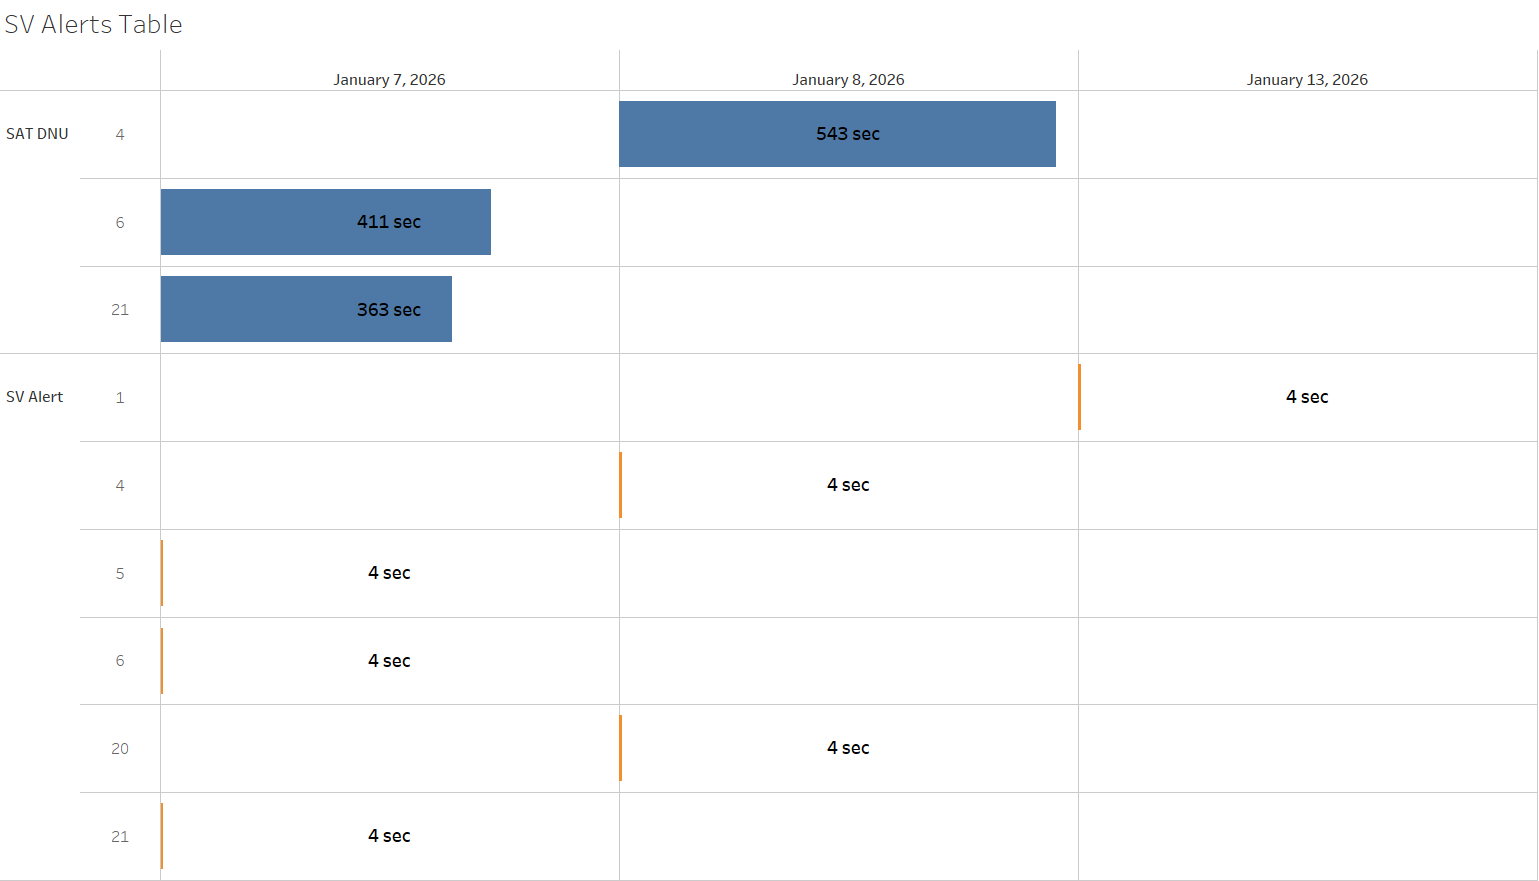
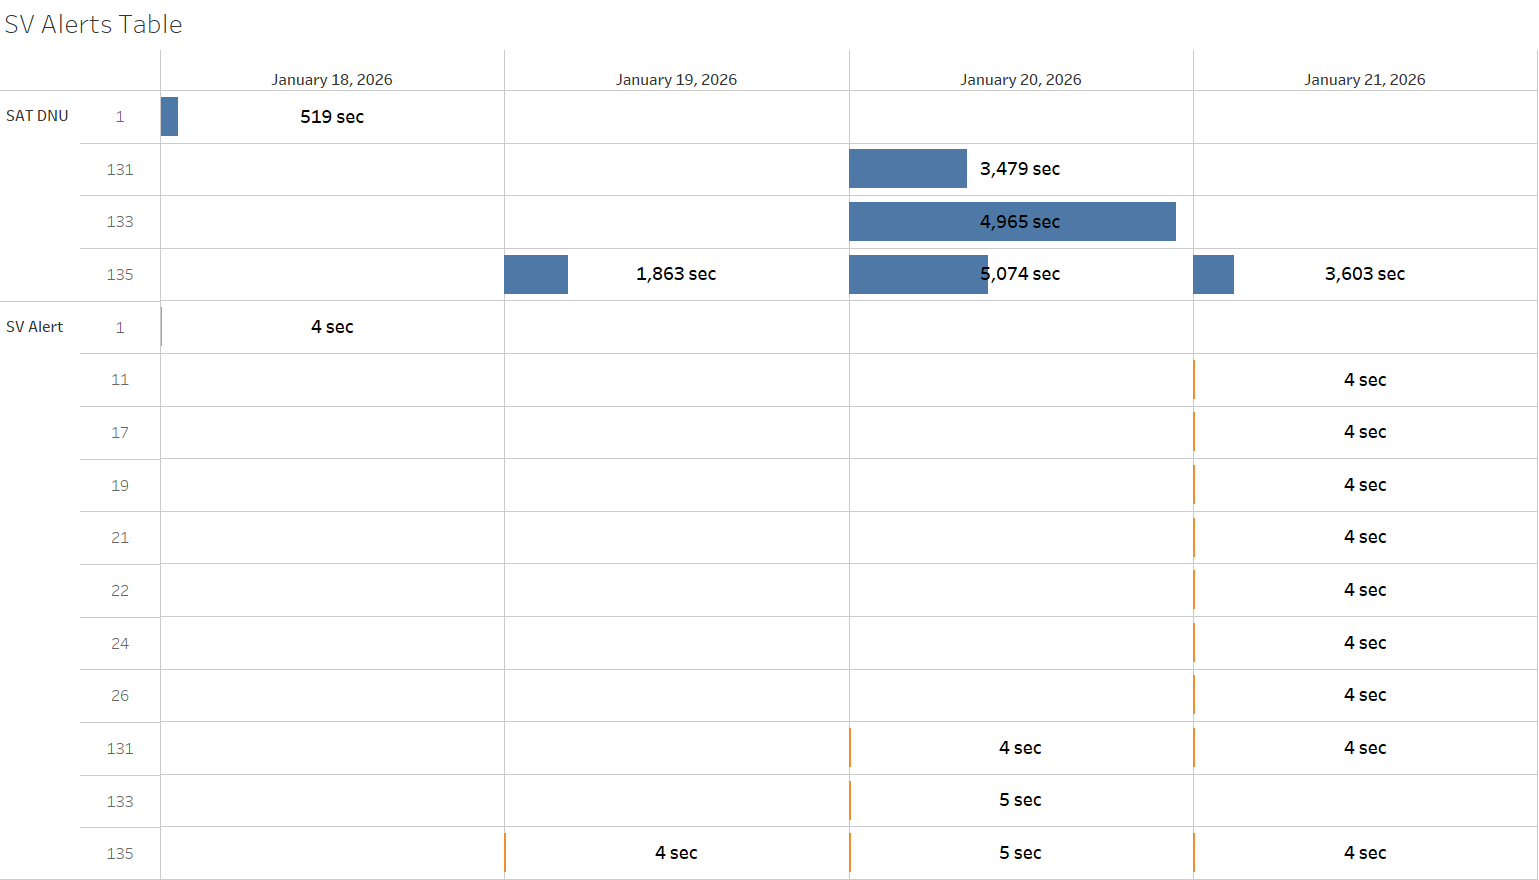
added SV alerts and additional L1/L2 bias errors

diff --git a/sysmon/index.html b/sysmon/index.html
@@ -174,10 +174,12 @@
                                                                         </ul>
                                                                   </li>
                                                             </ul>
-                                                            <p class="text-center"><img class="img img-thumbnail col-md-8"
+                                                            <p class="text-center"><img
+                                                                        class="img img-thumbnail col-md-8"
                                                                         src="img/20260120_G4_Extreme_Storm.png"
                                                                         alt="20260120 - G4 Extreme Storm"></p>
-                                                            <p class="text-center"><img class="img img-thumbnail col-md-8"
+                                                            <p class="text-center"><img
+                                                                        class="img img-thumbnail col-md-8"
                                                                         src="img/20260120_iono_impacts.png"
                                                                         alt="20260120 - Iono Impacts"></p>
 
@@ -198,10 +200,14 @@
                                                                                     Source C&amp;V changed from
                                                                                     ZLA-&gt;ZTL then back ZTL-&gt;ZLA ~3
                                                                                     seconds later...</li>
+                                                                              <li>1/20 16:18 - L1/L2 Bias Errors for
+                                                                                    MSD, MPR, and MMD</li>
                                                                         </ul>
+
                                                                   </li>
                                                             </ul>
-                                                            <p class="text-center"><img class="img img-thumbnail col-md-8"
+                                                            <p class="text-center"><img
+                                                                        class="img img-thumbnail col-md-8"
                                                                         src="img/20260120_ZLA_Comm_Hit.png"
                                                                         alt="20260120 - ZLA Comm Hit"></p>
 
@@ -530,10 +536,10 @@
                         <div class="carousel-item">
                               <a class="text-decoration-none" target="_blank"
                                     href="https://www.nstb.tc.faa.gov/Alert_Explorer/?startTime=01-14-2026%2000:00:00&endTime=01-22-2026%2000:00:00">
-                                    <!-- <img class="col-md-12" src="img/w1/SV Alerts Table.png"
-                                          class="img-fluid mx-auto d-block" alt="SV Not Mon alerts"> -->
-                                    <h2 class="m-lg-5 mx-auto display-4 text-center h-100">No SV Alert Data from
-                                          Alert Explorer for date range.</h2>
+                                    <img class="col-md-12" src="img/w1/SV Alerts Table.png"
+                                          class="img-fluid mx-auto d-block" alt="SV Not Mon alerts">
+                                    <!-- <h2 class="m-lg-5 mx-auto display-4 text-center h-100">No SV Alert Data from
+                                          Alert Explorer for date range.</h2> -->
                               </a>
 
                         </div>
